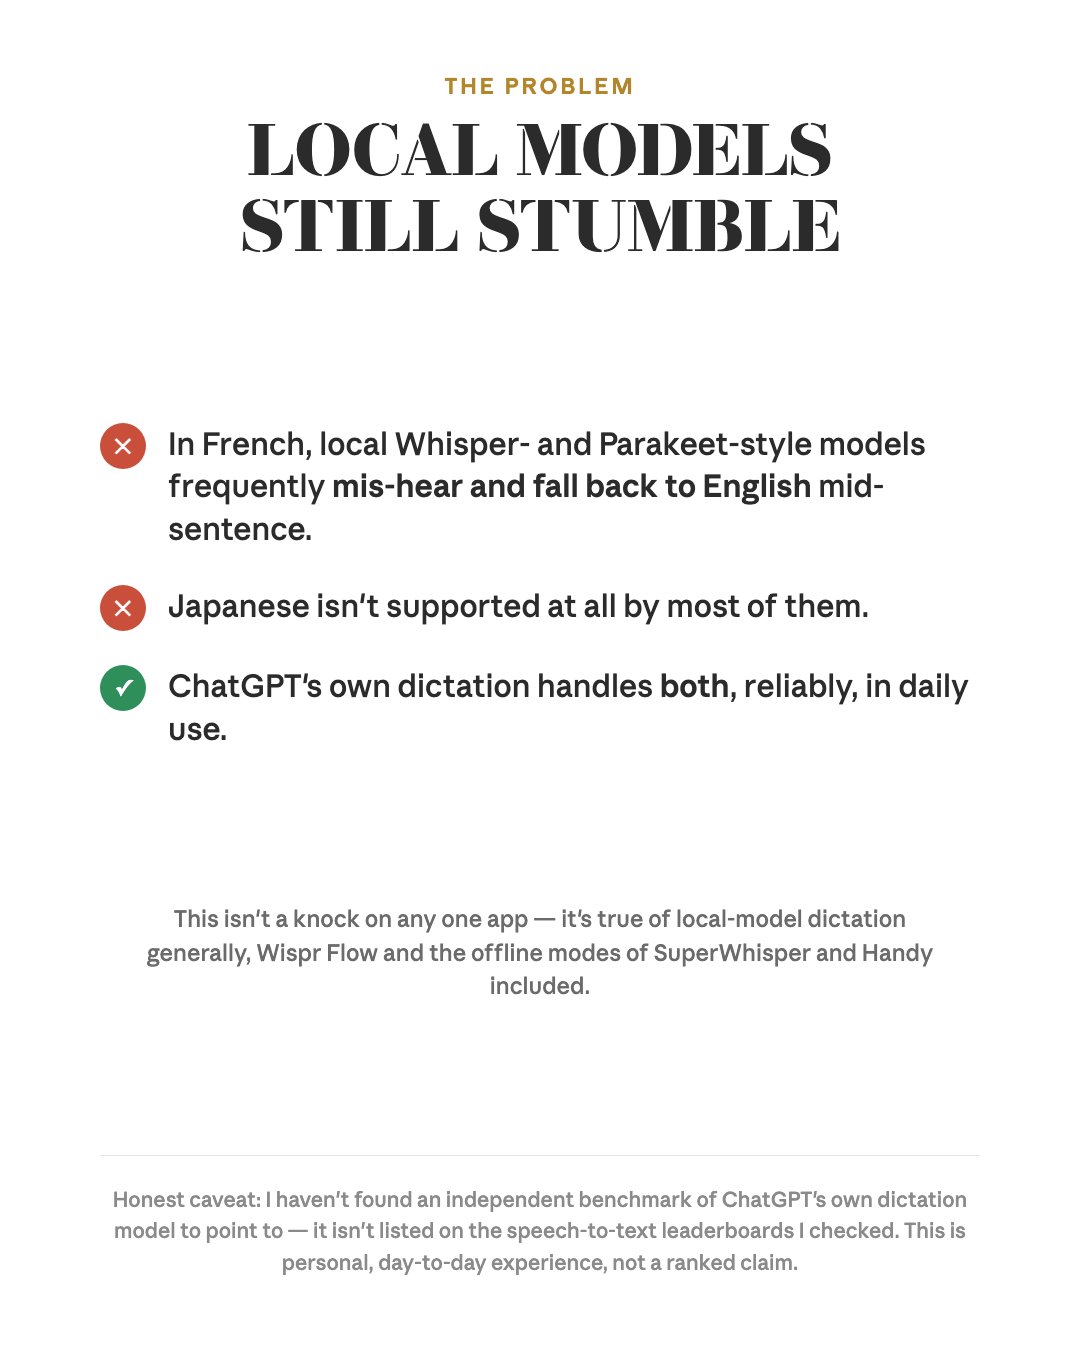
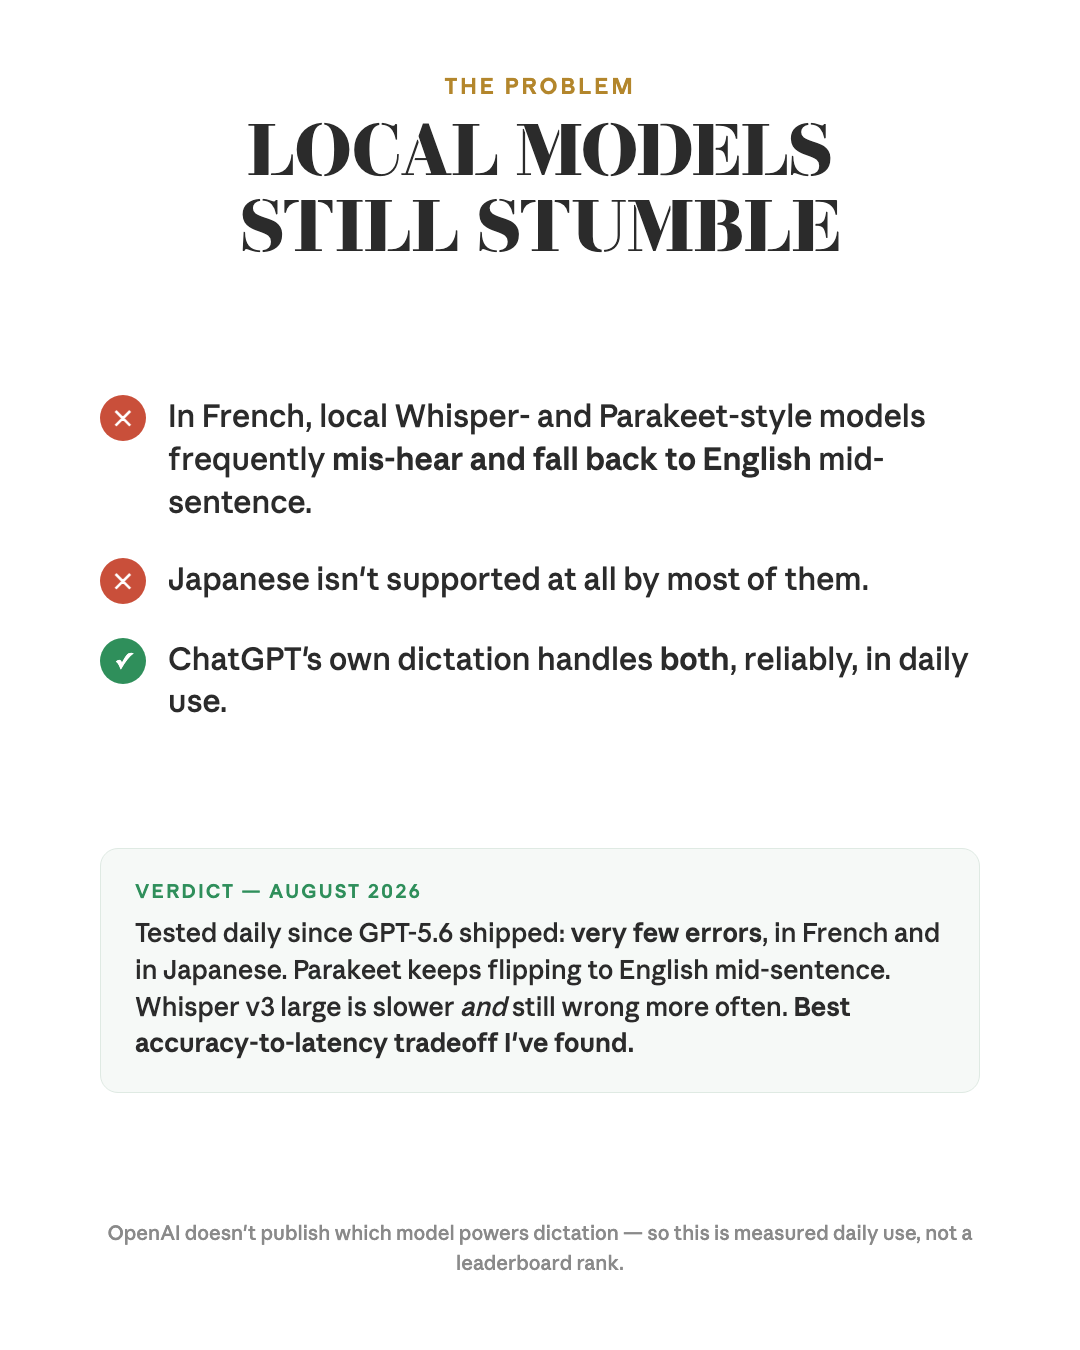
Remplace la réserve par le verdict des tests quotidiens
La formulation précédente s'excusait presque de ne pas avoir de benchmark,
alors que Matthieu dispose de la seule preuve qui vaille ici : un usage
quotidien depuis la sortie de GPT-5.6, en français et en japonais, avec très
peu d'erreurs. Parakeet bascule sans cesse en anglais, Whisper v3 large est
plus lent ET se trompe davantage. Le verdict remplace donc l'aveu de
faiblesse, sur la slide 2 comme dans le README.

Ce qui reste énoncé comme inconnu, parce que ça l'est : le nom du modèle,
qu'OpenAI ne publie pas et qui n'apparaît sur aucun classement consulté. Le
README précise en revanche ce que la mesure du jour a établi, à savoir que
la dictée téléverse un WebM sur /backend-api/transcribe sans ouvrir ni
WebSocket ni WebRTC, donc que la requête n'emprunte pas le chemin de l'API
Realtime, quel que soit le modèle qui la traite côté serveur.

Changed region(s): [[0.0917, 0.28, 0.8861, 0.56], [0.1222, 0.6533, 0.8861, 0.7778], [0.0917, 0.8711, 0.8861, 0.9644]]

diff --git a/docs/social/tmp/slide-2.html b/docs/social/tmp/slide-2.html
@@ -32,24 +32,38 @@
 
   .row p { font-size: 31px; line-height: 1.38; }
 
-  .apps {
+  .verdict {
+    width: 100%;
+    max-width: 880px;
+    background: #f6f9f7;
+    border: 1px solid #dfeae3;
+    border-radius: 18px;
+    padding: 30px 34px;
+  }
+  .verdict .label {
+    font-family: 'AnthropicSans', sans-serif;
+    font-weight: 600;
+    font-size: 19px;
+    letter-spacing: 0.12em;
+    text-transform: uppercase;
+    color: var(--accent-ok);
+  }
+  .verdict p {
     font-family: 'AnthropicSans', sans-serif;
     font-weight: 500;
-    font-size: 23px;
-    line-height: 1.45;
-    color: var(--ink-soft);
-    text-align: center;
-    max-width: 820px;
+    font-size: 26px;
+    line-height: 1.42;
+    color: var(--ink);
+    margin-top: 12px;
   }
+  .verdict p b { font-weight: 600; }
 
-  .caveat {
-    padding-top: 28px;
-    border-top: 1px solid var(--rule);
+  .note {
     width: 100%;
     max-width: 880px;
     font-family: 'AnthropicSans', sans-serif;
     font-weight: 500;
-    font-size: 21px;
+    font-size: 20px;
     line-height: 1.5;
     color: var(--ink-faint);
     text-align: center;
@@ -81,19 +95,21 @@
 
     <div class="spacer"></div>
 
-    <div class="apps">
-      This isn't a knock on any one app — it's true of local-model dictation
-      generally, Wispr Flow and the offline modes of SuperWhisper and Handy
-      included.
+    <div class="verdict">
+      <div class="label">Verdict — August 2026</div>
+      <p>
+        Tested daily since GPT-5.6 shipped: <b>very few errors</b>, in French
+        and in Japanese. Parakeet keeps flipping to English mid-sentence.
+        Whisper v3 large is slower <i>and</i> still wrong more often.
+        <b>Best accuracy-to-latency tradeoff I've found.</b>
+      </p>
     </div>
 
     <div class="spacer"></div>
 
-    <div class="caveat">
-      Honest caveat: I haven't found an independent benchmark of ChatGPT's own
-      dictation model to point to — it isn't listed on the speech-to-text
-      leaderboards I checked. This is personal, day-to-day experience, not a
-      ranked claim.
+    <div class="note">
+      OpenAI doesn't publish which model powers dictation — so this is measured
+      daily use, not a leaderboard rank.
     </div>
 
   </div>

diff --git a/README.md b/README.md
@@ -13,16 +13,21 @@ than the local models used by some other dictation apps, especially in
 French and Japanese — available system-wide with one key, without paying for
 a separate transcription API.
 
-A caveat on that claim, so this doesn't read as more authoritative than it
-is: I haven't found an independent benchmark of ChatGPT's own dictation
-model to point to (it isn't listed on the couple of speech-to-text
-leaderboards I checked). This is my own day-to-day experience, not a ranked
-result. In my use, local models like Parakeet frequently mis-detect French
-speech and fall back to English mid-sentence, and don't handle Japanese at
-all, whereas ChatGPT's dictation does both. I've used it on both a ChatGPT
-Plus account and a free account and haven't noticed a quality difference. It
-can be a couple of seconds slower to come back than a local model, which is
-a trade I'll take for fewer wrong words.
+**Verdict after daily use, August 2026.** I've dictated with it every day since
+GPT-5.6 shipped and hit very few errors, in French and in Japanese alike.
+Parakeet keeps flipping to English mid-sentence, which makes it unusable for me.
+Whisper v3 large is both slower *and* wrong more often. Taken together —
+accuracy, latency, and the languages I actually work in — this is the best
+tradeoff I've found. I've used it on a ChatGPT Plus account and on a free one
+without noticing a quality difference.
+
+Two things I can't claim, and won't. **Which model powers it:** OpenAI doesn't
+publish that, and it isn't listed on the speech-to-text leaderboards I checked,
+so nothing here is a leaderboard rank — it's measured daily use. What I *did*
+measure is the plumbing: dictation uploads a WebM file to
+`/backend-api/transcribe` and opens no WebSocket and no WebRTC connection, so
+whatever transcribes it server-side, the request does not travel the Realtime
+API path.
 
 ## How it works
 
